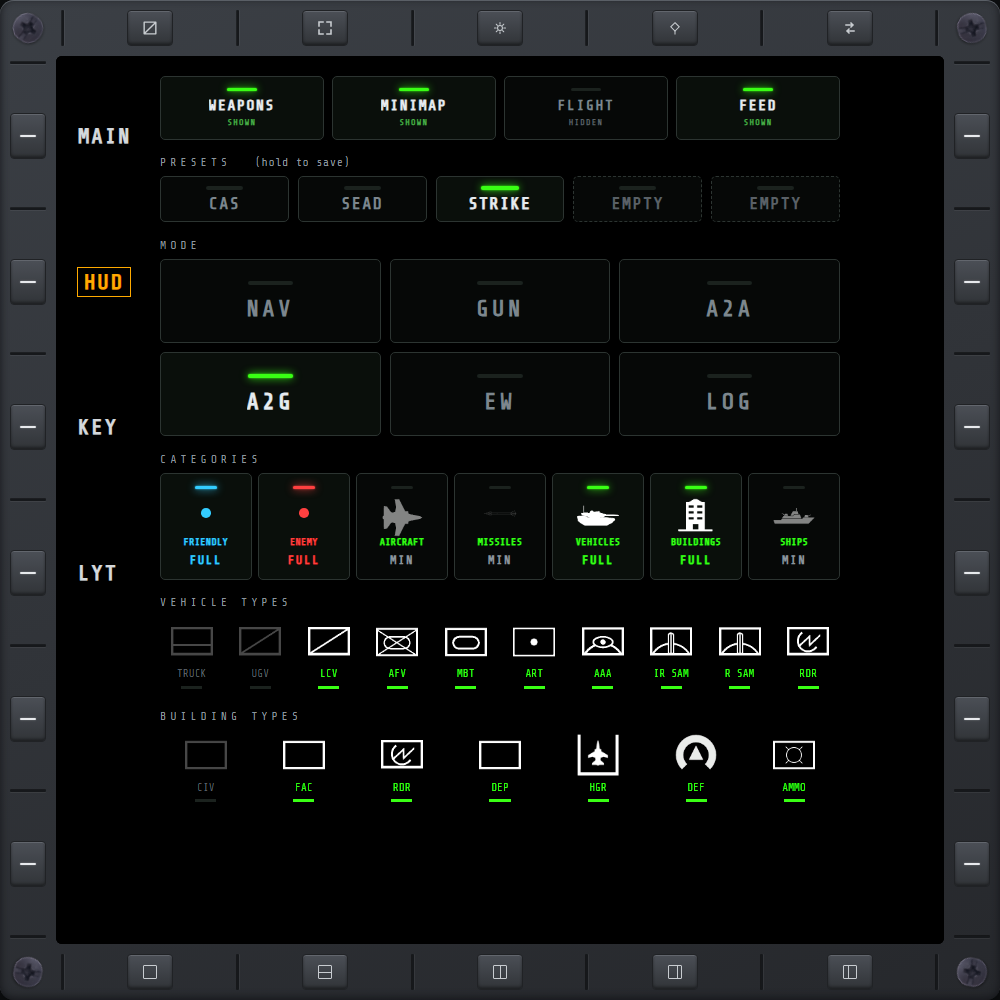
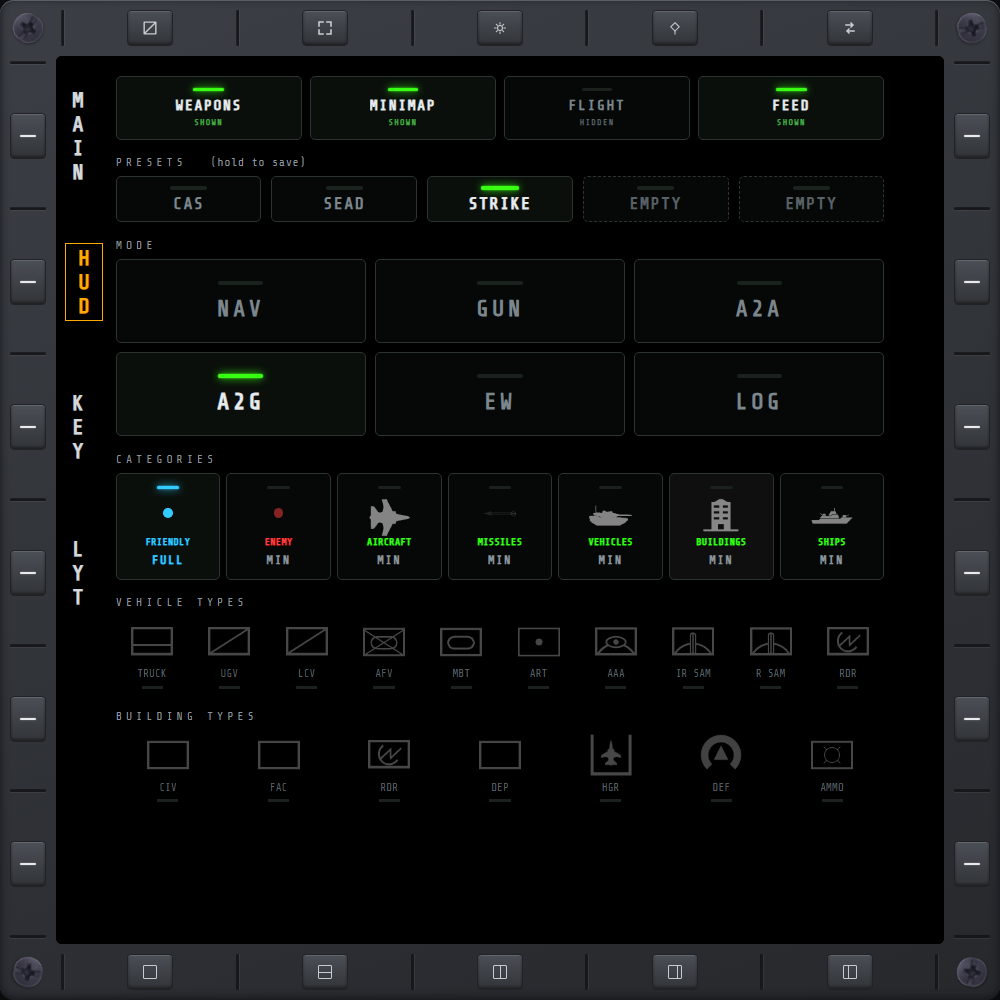
Pre-release pass: extract KEY page grouping with a test, refresh stale docs and shots
keybinds-groups.js holds the flight-order grouping, bound counts and search text (pure, with
keybinds-groups.test.js, including that every registry section lands in a group and an unclaimed
bind falls into OTHER). Updates the planning docs and src/web/README the rework touches, a stale
Keybinds.cs comment, and retakes HUD.png and LYT.png for the upright CFG-group nav.

diff --git a/src/web/pages/keybinds/keybinds.js b/src/web/pages/keybinds/keybinds.js
@@ -205,94 +205,7 @@ if (document.fonts && document.fonts.ready) document.fonts.ready.then(fitTiles);
 // Key naming (KeyboardEvent.code → Unity KeyCode name, and its compact display form) lives in
 // keybinds-keymap.js, pure and unit-checked.
 var displayName = KeybindsKeymap.displayName;
-
-// ── Grouping ─────────────────────────────────────────────────────────────────────────────────
-// The registry's sections are persistence-shaped; the page reads them in flight order instead.
-// Each group lists sub-sections that claim binds by server section title or by id. `note` names
-// the server section whose shared-behaviour note applies when it isn't the sub-section's own
-// title. A bind no sub-section claims lands in a trailing OTHER group under its own section, so a
-// newly registered keybind shows up without touching this table.
-function sec(t, pick, noteFrom) { return { t: t, pick: pick, noteFrom: noteFrom || t }; }
-function inSection(title) { return function (b) { return b.section === title; }; }
-function idMatches(re) { return function (b) { return re.test(b.id); }; }
-
-var GROUPS = [
-  { id: 'systems', n: '01', t: 'SYSTEMS', secs: [
-    sec('POWER · ENGINE · RADAR', idMatches(/^(power|engine|radar)-/)),
-    sec('MASTER ARM', idMatches(/^master-arms-/)),
-    sec('GEAR', inSection('GEAR')) ] },
-  { id: 'combat', n: '02', t: 'COMBAT', secs: [
-    sec('COMBAT MODE', idMatches(/^combat-mode-/), 'IMMERSION OPTIONS'),
-    sec('WEAPONS', inSection('WEAPONS')),
-    sec('COUNTERMEASURES', inSection('COUNTERMEASURES')) ] },
-  { id: 'sensors', n: '03', t: 'SENSORS', secs: [
-    sec('TGT', inSection('TGT')),
-    sec('TGP', inSection('TGP')) ] },
-  { id: 'displays', n: '04', t: 'DISPLAY CONTROL', secs: [
-    sec('SOI', inSection('SOI')),
-    sec('CURSOR', inSection('CURSOR')) ] },
-  { id: 'nav', n: '05', t: 'NAVIGATION', secs: [
-    sec('MAP', inSection('MAP')) ] },
-  { id: 'setup', n: '06', t: 'MFD SETUP', secs: [
-    sec('LAYOUT', inSection('LAYOUT')),
-    sec('LAYOUT PRESETS', inSection('LAYOUT PRESETS')),
-    sec('HUD PRESETS', inSection('HUD PRESETS')),
-    sec('TGT PRESETS', inSection('TGT PRESETS')),
-    sec('MISC', function (b) { return b.id === 'units-toggle' || b.id === 'internal-mfd-poc-toggle'; }) ] }
-];
-
-function isBound(b) {
-  return !!b.key || (b.joyButton !== undefined && b.joyButton >= 0) || (b.axis !== undefined && b.axis >= 0);
-}
-
-function joyText(b) {
-  return b.joyNum > 0 ? 'J' + b.joyNum + ' B' + b.joyButton : 'JOY ' + b.joyButton;
-}
-
-function axisText(b) {
-  return b.axisNum > 0 ? 'J' + b.axisNum + ' A' + b.axis : 'AXIS ' + b.axis;
-}
-
-// What the search box matches against: label, description and whichever bindings are set.
-function searchText(b) {
-  var parts = [b.label, b.description || ''];
-  if (b.key) parts.push(displayName(b.key));
-  if (b.joyButton >= 0) parts.push(joyText(b));
-  if (b.axis >= 0) parts.push(axisText(b));
-  return parts.join(' ').toLowerCase();
-}
-
-// binds → [{id, n, t, secs:[{id, t, note, rows}], bound, all}] — unfiltered, so the rail and the
-// header count stay the same while searching.
-function buildModel() {
-  var claimed = {};
-  var groups = GROUPS.map(function (g) {
-    return { id: g.id, n: g.n, t: g.t, secs: g.secs.map(function (s, i) {
-      var rows = binds.filter(function (b) {
-        if (claimed[b.id] || !s.pick(b)) return false;
-        claimed[b.id] = true;
-        return true;
-      });
-      return { id: g.id + '-' + i, t: s.t, note: notes[s.noteFrom] || '', rows: rows };
-    }) };
-  });
-  var rest = binds.filter(function (b) { return !claimed[b.id]; });
-  if (rest.length) {
-    var titles = [];
-    rest.forEach(function (b) { if (titles.indexOf(b.section) < 0) titles.push(b.section); });
-    groups.push({ id: 'other', n: '07', t: 'OTHER', secs: titles.map(function (t, i) {
-      return { id: 'other-' + i, t: t, note: notes[t] || '',
-               rows: rest.filter(function (b) { return b.section === t; }) };
-    }) });
-  }
-  groups.forEach(function (g) {
-    g.secs = g.secs.filter(function (s) { return s.rows.length; });
-    g.secs.forEach(function (s) { s.bound = s.rows.filter(isBound).length; });
-    g.all = g.secs.reduce(function (n, s) { return n + s.rows.length; }, 0);
-    g.bound = g.secs.reduce(function (n, s) { return n + s.bound; }, 0);
-  });
-  return groups.filter(function (g) { return g.secs.length; });
-}
+var isBound = KeybindsGroups.isBound, joyText = KeybindsGroups.joyText, axisText = KeybindsGroups.axisText;
 
 // ── Render ───────────────────────────────────────────────────────────────────────────────────
 function cell(bind, kind) {
@@ -448,7 +361,7 @@ function renderRail(groups) {
 }
 
 function render() {
-  var groups = buildModel();
+  var groups = KeybindsGroups.build(binds, notes);
   var all = 0, bound = 0;
   groups.forEach(function (g) { all += g.all; bound += g.bound; });
   document.getElementById('kb-count').textContent = bound + ' / ' + all + ' BOUND';
@@ -459,7 +372,7 @@ function render() {
   var shown = 0;
   groups.forEach(function (g) {
     var secs = g.secs.map(function (s) {
-      return { s: s, rows: query ? s.rows.filter(function (b) { return searchText(b).indexOf(query) >= 0; }) : s.rows };
+      return { s: s, rows: query ? s.rows.filter(function (b) { return KeybindsGroups.searchText(b, displayName).indexOf(query) >= 0; }) : s.rows };
     }).filter(function (x) { return x.rows.length; });
     if (!secs.length) return;
 

diff --git a/src/web/pages/keybinds/keybinds-groups.test.js b/src/web/pages/keybinds/keybinds-groups.test.js
@@ -1,0 +1,78 @@
+// Self-check for the KEY page's grouping. Run: `node keybinds-groups.test.js`.
+const assert = require('assert');
+const { GROUPS, build, isBound, joyText, axisText, searchText } = require('./keybinds-groups.js');
+
+const bind = (id, section, extra) => Object.assign({ id, section, label: id, description: '', key: '', joyButton: -1, joyNum: 0 }, extra);
+
+// One representative bind per registry section (Keybinds.SectionTitle's display titles) plus the
+// id-claimed ones, and where each must land: [group id, sub-section title].
+const EXPECTED = [
+  ['power-on', 'IMMERSION OPTIONS', 'systems', 'POWER · ENGINE · RADAR'],
+  ['engine-off', 'IMMERSION OPTIONS', 'systems', 'POWER · ENGINE · RADAR'],
+  ['radar-on', 'IMMERSION OPTIONS', 'systems', 'POWER · ENGINE · RADAR'],
+  ['master-arms-off', 'IMMERSION OPTIONS', 'systems', 'MASTER ARM'],
+  ['gear-up', 'GEAR', 'systems', 'GEAR'],
+  ['combat-mode-aa', 'IMMERSION OPTIONS', 'combat', 'COMBAT MODE'],
+  ['gun-trigger', 'WEAPONS', 'combat', 'WEAPONS'],
+  ['flares', 'COUNTERMEASURES', 'combat', 'COUNTERMEASURES'],
+  ['tgt-next', 'TGT', 'sensors', 'TGT'],
+  ['tgp-point-track', 'TGP', 'sensors', 'TGP'],
+  ['soi-next', 'SOI', 'displays', 'SOI'],
+  ['cursor-up', 'CURSOR', 'displays', 'CURSOR'],
+  ['map-follow', 'MAP', 'nav', 'MAP'],
+  ['layout-save', 'LAYOUT', 'setup', 'LAYOUT'],
+  ['layout-preset-1', 'LAYOUT PRESETS', 'setup', 'LAYOUT PRESETS'],
+  ['hud-preset-1', 'HUD PRESETS', 'setup', 'HUD PRESETS'],
+  ['tgt-preset-1', 'TGT PRESETS', 'setup', 'TGT PRESETS'],
+  ['units-toggle', 'Units Keybinds', 'setup', 'MISC'],
+  ['internal-mfd-poc-toggle', 'Internal MFD Keybinds', 'setup', 'MISC'],
+];
+
+const binds = EXPECTED.map(([id, section]) => bind(id, section));
+const groups = build(binds, {});
+for (const [id, , gid, title] of EXPECTED) {
+  const g = groups.find(x => x.id === gid);
+  const s = g && g.secs.find(x => x.rows.some(r => r.id === id));
+  assert.ok(s && s.t === title, `${id} should land in ${gid} / ${title}, got ${s ? s.t : 'nowhere'}`);
+}
+assert.ok(!groups.some(g => g.id === 'other'), 'every representative bind is claimed, so no OTHER group');
+assert.deepStrictEqual(groups.map(g => g.n), ['01', '02', '03', '04', '05', '06'], 'groups keep their flight order');
+assert.strictEqual(GROUPS.length, 6);
+
+// A bind no sub-section claims still shows up, under its own section, in a trailing OTHER group.
+const withNew = build(binds.concat(bind('new-thing', 'Brand New Keybinds')), {});
+const other = withNew[withNew.length - 1];
+assert.strictEqual(other.id, 'other');
+assert.deepStrictEqual(other.secs.map(s => [s.t, s.rows.map(r => r.id)]), [['Brand New Keybinds', ['new-thing']]]);
+
+// A bind is only ever listed once, and empty sections/groups are dropped.
+assert.strictEqual(groups.reduce((n, g) => n + g.all, 0), binds.length);
+assert.ok(build([bind('flares', 'COUNTERMEASURES')], {}).every(g => g.secs.length), 'no empty sections');
+
+// Notes: a sub-section's own title by default; COMBAT MODE borrows the IMMERSION OPTIONS note.
+const noted = build(binds, { 'IMMERSION OPTIONS': 'tap or hold', TGT: 'regardless of focus' });
+const note = (gid, title) => noted.find(g => g.id === gid).secs.find(s => s.t === title).note;
+assert.strictEqual(note('combat', 'COMBAT MODE'), 'tap or hold');
+assert.strictEqual(note('sensors', 'TGT'), 'regardless of focus');
+assert.strictEqual(note('sensors', 'TGP'), '');
+
+// Bound counts: a key, a joystick button or an axis each count; unbound rows (joyButton -1) don't.
+assert.ok(!isBound(bind('a', 'GEAR')));
+assert.ok(isBound(bind('a', 'GEAR', { key: 'G' })));
+assert.ok(isBound(bind('a', 'GEAR', { joyButton: 0 })), 'button 0 is a real button');
+assert.ok(isBound({ id: 'ax', axis: 3 }) && !isBound({ id: 'ax', axis: -1 }));
+assert.ok(!isBound({ id: 'k', key: '' }), 'a key-only row with no key is unbound');
+const counted = build([bind('gear-up', 'GEAR', { key: 'G' }), bind('gear-down', 'GEAR')], {});
+assert.deepStrictEqual([counted[0].bound, counted[0].all, counted[0].secs[0].bound], [1, 2, 1]);
+
+// Display text and search.
+assert.strictEqual(joyText({ joyNum: 2, joyButton: 11 }), 'J2 B11');
+assert.strictEqual(joyText({ joyNum: 0, joyButton: 5 }), 'JOY 5');
+assert.strictEqual(axisText({ axisNum: 2, axis: 3 }), 'J2 A3');
+assert.strictEqual(axisText({ axisNum: 0, axis: 3 }), 'AXIS 3');
+const shown = k => k.toUpperCase();
+const g = bind('gear-up', 'GEAR', { label: 'Gear Up', description: 'Raise the landing gear.', key: 'g', joyButton: 11, joyNum: 2 });
+for (const q of ['gear up', 'landing', 'j2 b11', 'g']) assert.ok(searchText(g, shown).includes(q), `search text should contain ${q}`);
+assert.ok(!searchText(bind('x', 'GEAR', { label: 'X' }), shown).includes('j2'), 'an unbound row has no binding text');
+
+console.log('keybinds-groups.test.js: OK');

diff --git a/src/web/pages/keybinds/keybinds-groups.js b/src/web/pages/keybinds/keybinds-groups.js
@@ -1,0 +1,94 @@
+// The KEY page's grouping and bind-text logic, split out of keybinds.js so it carries no DOM refs and
+// can be unit-checked in Node (see keybinds-groups.test.js).
+(function (root) {
+  // The registry's sections are persistence-shaped; the page reads them in flight order instead.
+  // Each group lists sub-sections that claim binds by server section title or by id. `note` names
+  // the server section whose shared-behaviour note applies when it isn't the sub-section's own
+  // title. A bind no sub-section claims lands in a trailing OTHER group under its own section, so a
+  // newly registered keybind shows up without touching this table.
+  function sec(t, pick, noteFrom) { return { t: t, pick: pick, noteFrom: noteFrom || t }; }
+  function inSection(title) { return function (b) { return b.section === title; }; }
+  function idMatches(re) { return function (b) { return re.test(b.id); }; }
+
+  var GROUPS = [
+    { id: 'systems', n: '01', t: 'SYSTEMS', secs: [
+      sec('POWER · ENGINE · RADAR', idMatches(/^(power|engine|radar)-/)),
+      sec('MASTER ARM', idMatches(/^master-arms-/)),
+      sec('GEAR', inSection('GEAR')) ] },
+    { id: 'combat', n: '02', t: 'COMBAT', secs: [
+      sec('COMBAT MODE', idMatches(/^combat-mode-/), 'IMMERSION OPTIONS'),
+      sec('WEAPONS', inSection('WEAPONS')),
+      sec('COUNTERMEASURES', inSection('COUNTERMEASURES')) ] },
+    { id: 'sensors', n: '03', t: 'SENSORS', secs: [
+      sec('TGT', inSection('TGT')),
+      sec('TGP', inSection('TGP')) ] },
+    { id: 'displays', n: '04', t: 'DISPLAY CONTROL', secs: [
+      sec('SOI', inSection('SOI')),
+      sec('CURSOR', inSection('CURSOR')) ] },
+    { id: 'nav', n: '05', t: 'NAVIGATION', secs: [
+      sec('MAP', inSection('MAP')) ] },
+    { id: 'setup', n: '06', t: 'MFD SETUP', secs: [
+      sec('LAYOUT', inSection('LAYOUT')),
+      sec('LAYOUT PRESETS', inSection('LAYOUT PRESETS')),
+      sec('HUD PRESETS', inSection('HUD PRESETS')),
+      sec('TGT PRESETS', inSection('TGT PRESETS')),
+      sec('MISC', function (b) { return b.id === 'units-toggle' || b.id === 'internal-mfd-poc-toggle'; }) ] }
+  ];
+
+  function isBound(b) {
+    return !!b.key || (b.joyButton !== undefined && b.joyButton >= 0) || (b.axis !== undefined && b.axis >= 0);
+  }
+
+  function joyText(b) {
+    return b.joyNum > 0 ? 'J' + b.joyNum + ' B' + b.joyButton : 'JOY ' + b.joyButton;
+  }
+
+  function axisText(b) {
+    return b.axisNum > 0 ? 'J' + b.axisNum + ' A' + b.axis : 'AXIS ' + b.axis;
+  }
+
+  // What the search box matches against: label, description and whichever bindings are set.
+  function searchText(b, displayName) {
+    var parts = [b.label, b.description || ''];
+    if (b.key) parts.push(displayName(b.key));
+    if (b.joyButton >= 0) parts.push(joyText(b));
+    if (b.axis >= 0) parts.push(axisText(b));
+    return parts.join(' ').toLowerCase();
+  }
+
+  // binds → [{id, n, t, secs:[{id, t, note, rows, bound}], bound, all}] — unfiltered, so the rail and
+  // the header count stay the same while searching. `notes` is {server section title: note}.
+  function build(binds, notes) {
+    var claimed = {};
+    var groups = GROUPS.map(function (g) {
+      return { id: g.id, n: g.n, t: g.t, secs: g.secs.map(function (s, i) {
+        var rows = binds.filter(function (b) {
+          if (claimed[b.id] || !s.pick(b)) return false;
+          claimed[b.id] = true;
+          return true;
+        });
+        return { id: g.id + '-' + i, t: s.t, note: notes[s.noteFrom] || '', rows: rows };
+      }) };
+    });
+    var rest = binds.filter(function (b) { return !claimed[b.id]; });
+    if (rest.length) {
+      var titles = [];
+      rest.forEach(function (b) { if (titles.indexOf(b.section) < 0) titles.push(b.section); });
+      groups.push({ id: 'other', n: '07', t: 'OTHER', secs: titles.map(function (t, i) {
+        return { id: 'other-' + i, t: t, note: notes[t] || '',
+                 rows: rest.filter(function (b) { return b.section === t; }) };
+      }) });
+    }
+    groups.forEach(function (g) {
+      g.secs = g.secs.filter(function (s) { return s.rows.length; });
+      g.secs.forEach(function (s) { s.bound = s.rows.filter(isBound).length; });
+      g.all = g.secs.reduce(function (n, s) { return n + s.rows.length; }, 0);
+      g.bound = g.secs.reduce(function (n, s) { return n + s.bound; }, 0);
+    });
+    return groups.filter(function (g) { return g.secs.length; });
+  }
+
+  const api = { GROUPS, build, isBound, joyText, axisText, searchText };
+  if (typeof module !== 'undefined' && module.exports) module.exports = api;
+  else root.KeybindsGroups = api;
+})(typeof self !== 'undefined' ? self : this);

diff --git a/src/web/pages/keybinds/keybinds.css b/src/web/pages/keybinds/keybinds.css
@@ -53,8 +53,8 @@ html, body { overflow: hidden; }
   border-right: 1px solid var(--no-panel-border);
   overflow-x: hidden;
   overflow-y: auto;
-  /* shadcn's icon-collapsible sidebar: the width eases linearly over 200ms and the labels are
-     clipped by it; the section rows (which have no icon form) drop out. */
+  /* Collapses to an icon strip: the width eases linearly over 200ms and the labels are clipped by
+     it; the section rows (which have no icon form) drop out. */
   transition: width 200ms linear;
 }
 .kb-rail.collapsed { width: 48px; }

diff --git a/src/web/pages/keybinds/keybinds.html b/src/web/pages/keybinds/keybinds.html
@@ -74,6 +74,7 @@
 
 <script src="/assets/services/send-command.js"></script>
 <script src="/assets/pages/keybinds/keybinds-keymap.js"></script>
+<script src="/assets/pages/keybinds/keybinds-groups.js"></script>
 <script src="/assets/services/remote-keybinds.js"></script>
 <script src="/assets/pages/keybinds/keybinds.js"></script>
 </body>

diff --git a/src/plugin/Input/Keybinds.cs b/src/plugin/Input/Keybinds.cs
@@ -419,11 +419,10 @@ namespace NOXMFD
                     () => TgtPresetStore.LoadPreset(presetIndex));
             }
 
-            // Immersion keybinds — docs/radar-master-arms.md (issue #32). Registered LAST (and its
-            // four start-state settings appended after this Bind() method, in the same order) so the
-            // KEY page's "Immersion options" section — binds + settings together — lands at the very
-            // bottom of the page, below a separator, per the user's request: appended, not interleaved
-            // with the existing sections above. Master Arm/Power/Radar/Engine are plain dedicated
+            // Immersion keybinds — docs/radar-master-arms.md (issue #32). Registered after the other
+            // sections; the KEY page places them by id (keybinds-groups.js: Power/Engine/Radar and
+            // Master Arm under Systems, A/A and A/G under Combat), not by registration order.
+            // Master Arm/Power/Radar/Engine are plain dedicated
             // ON+OFF pairs (edge:true, always the same action) — the game already has its own
             // single-toggle Radar/Engine bind for anyone who doesn't want a dedicated pair, so
             // there's no tap/hold trick here. A/A and A/G are different: there's no stock "reset

diff --git a/docs/layout-save-load.md b/docs/layout-save-load.md
@@ -134,7 +134,7 @@ correct modal.
 | `src/web/shell/shared/layout-keybinds.js` | Reads the shared keybind-config push and matches a `keydown` against the configured save/load keys |
 | `src/web/shell/classic/mfd.js` | `captureLayoutState`/`applyLayoutState` — `{splitMode, splitVariant, pages, pinnedPage}`; two LYT nav items (`BEZEL_EXTRAS.lyt`); `handleLayoutKeydown` attached to every iframe the shell owns (map, page-frame, both split panes), not just the top document |
 | `src/web/shell/f35/f35.js`, `f35.html`, `f35.css` | `captureLayoutState`/`applyLayoutState` — `{cells, pages}`, rebuilding portals directly from a saved `F35Glass` arrangement rather than replaying merge/split actions; a second row of nav items in `#layout-picker`; `handleLayoutKeydown` attached to `#map-tap` and every portal's frame (`makePortal`) |
-| `src/web/pages/keybinds/keybinds.js` | Renders a key-only row (one wide keyboard cell, no joystick column) |
+| `src/web/pages/keybinds/keybinds.js` | Renders a key-only row (a keyboard cell, with KEYBOARD ONLY in the joystick column) |
 | `tools/serve_web.py` | Stateful mock: `/layout-options` + `layout.save`/`rename`/`delete` actually edit a mutable `LAYOUTS` list (mirrors the existing `KEYBINDS` mock), seeded with one CLASSIC + one F-35 demo layout; plus the two new `KEYBINDS` rows |
 
 ## Verification performed

diff --git a/src/web/README.md b/src/web/README.md
@@ -93,7 +93,7 @@ Logic worth checking gets split into a **pure sibling module** the page loads an
 without a DOM — the page keeps the elements and live state and passes what the module needs in. The
 same move the shell makes with `nav-model.js` / `classic-paging.js`. Named for what it does:
 `map-transform.js` (world⇄pixel maths), `bdf-funds.js` (the magnitude-band money format),
-`keybinds-keymap.js` (KeyboardEvent ⇄ Unity KeyCode names, including Ctrl/Alt/Shift chords), `remote-keybinds.js` (the
+`keybinds-keymap.js` (KeyboardEvent ⇄ Unity KeyCode names, including Ctrl/Alt/Shift chords), `keybinds-groups.js` (the KEY page's flight-order grouping, bound counts and search text), `remote-keybinds.js` (the
 per-browser KEY-page listener that maps configured keys into `/command` posts), `wpt-route.js`
 (navigation display derivation — bearing/distance math, effective route/steer target selection,
 and client-side pre-validation for pasted JSON; the actual navigation data and its mutation live

diff --git a/docs/map-cursor.md b/docs/map-cursor.md
@@ -234,7 +234,7 @@ No per-layout cursor code — just the same "is my focused surface a MAP? then f
    that component (`Poll()`), so keys and axis coexist on the same two rows (**Cursor Horizontal** /
    **Cursor Vertical**) without conflict. `ConfigEndpoint.ServeKeybindsConfig` and `CommandDispatcher`
    (`keybind.arm-axis`/`cancel-axis`/`clear-axis`/`set-axis-invert`) extended to match; `keybinds.js`
-   renders these two rows as one wide cell (arm/capture/invert/clear) instead of empty key/joy cells,
+   renders these two rows with AXIS ONLY in the keyboard column and one axis cell (arm/capture/invert/clear) in the joystick column instead of empty key/joy cells,
    guided by the JSON simply omitting `key` for an axis-only row. Verified end-to-end in the
    `serve_web` harness (arm → simulated capture → invert → clear, no console errors) — the server-side
    axis read itself needs a real HOTAS in-game to confirm, same caveat as step 4's rAF glide.

diff --git a/docs/remote-keybinds.md b/docs/remote-keybinds.md
@@ -347,7 +347,7 @@ arbitrates.
   local-only, client-side toggle sitting in a section whose other rows are all shared/global) is
   why it later moved to the top of the page instead, right after INPUT WHEN GAME UNFOCUSED — the
   page's other client-only, non-bind setting — leaving IMMERSION OPTIONS to hold only real
-  server-persisted settings.
+  server-persisted settings. It is now the REMOTE KEYBINDS tile in the INPUT & HUD settings group.
 - **Label and copy, brief and instructive, generic rather than WSO-specific**:
   - Label: **"LISTEN FOR KEYBINDS (REMOTE)"**, default OFF.
   - One-line description: *"Lets this browser send your configured keybinds to the game as if

diff --git a/docs/radar-master-arms.md b/docs/radar-master-arms.md
@@ -98,6 +98,10 @@ sized title ("IMMERSION OPTIONS"), a short description, the three start-state se
 table (own header row, own rows) for the eight binds — below a separator, after everything the KEY
 page already has. Existing sections/table are untouched.
 
+Current layout (the KEY page rework, docs/keybinds-page.md): the settings are lit tiles under
+SETTINGS (ON AT SPAWN, and HUD By Mode under INPUT & HUD), and the binds are spread by id across
+01 Systems and 02 Combat rather than sitting in a section of their own.
+
 ## What already exists to reuse (read before building)
 
 ### Radar — patched at the source, not reactively toggled
